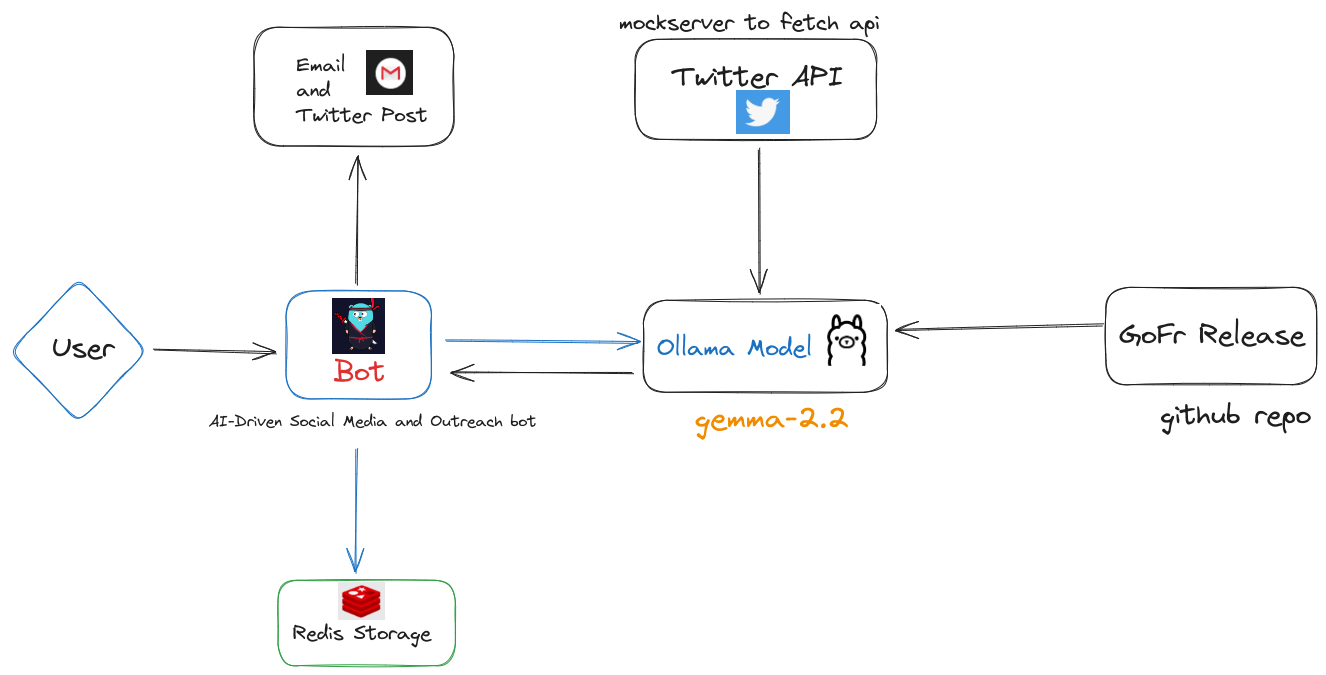
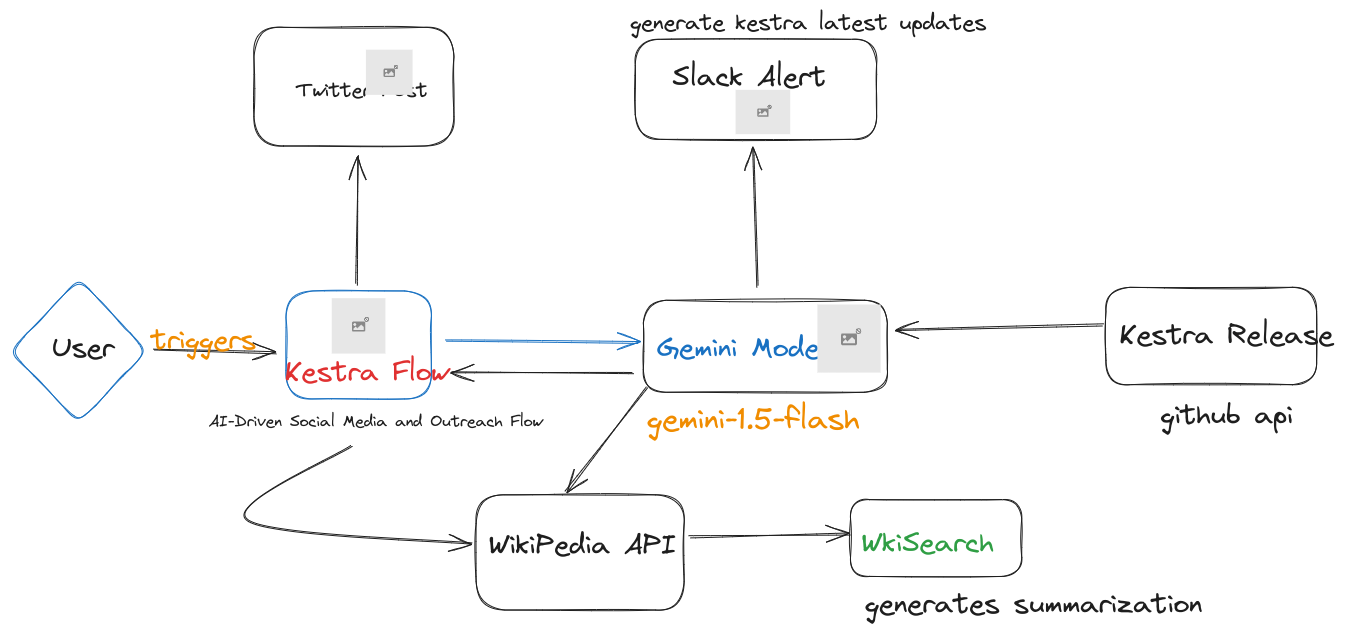
updated the readme

diff --git a/README.md b/README.md
@@ -1,13 +1,13 @@
-# Social Media Outreach AI
+# Social Media Outreach and Wikisearch AI
 
-Social Media Outreach AI is an AI-driven bot that integrates with GoFr framework to automate social media and email outreach tasks. It uses AI to generate content, monitors trending topics in Golang, and sends posts to Twitter and emails to target recipients. The bot is built using GoFr, GPT models, and various APIs for social media and email handling.
+Social Media Outreach and Wikisearch AI Workflow is an AI-driven bot that integrates with Golang framework to automate social media and email outreach tasks. It uses AI to generate content, monitors trending topics in Golang, and sends posts to Twitter and emails to target recipients. The bot is built using Golang, GPT models, and various APIs for social media and email handling.
 
 ![alt text](image.png)
 
 
 ## Project Structure
 
-gofr-bot/
+kestranotifierai/
 │
 ├── main.go               # Entry point
 ├── handlers/             # Handlers for routes
@@ -24,7 +24,7 @@ gofr-bot/
 
 ## Technologies Used
 
-- **GoFr Framework**: Route management and data handling
+- **Golang Framework**: Route management and data handling
 - **GPT Model (e.g., GPT-4)**: Content generation and analysis
 - **Redis**: Caching and data storage
 - **Twitter API**: Post tweets on Twitter
@@ -50,10 +50,9 @@ gofr-bot/
 2. **Run Ollama**:
     `curl -fsSL https://ollama.com/install.sh | sh`
     `ollama serve`
-3. Run GoFr Bot: Ensure that the necessary environment variables are set in .env (API keys and secrets), then run the bot server:
-The GoFr Bot server will run on port 9000.
+3. Run Kestra Workflow: Ensure that the necessary environment variables are set in .env (API keys and secrets), then run the bot server:
+The Kestra Workflow server will run on port 8080.
 
-4. Run the Mock Server: The mock server for Twitter API and email API runs on port 5000. You can start it separately if needed.
 
 ## Contribution
 Contributions are welcome! If you'd like to contribute, please fork the repository and submit a pull request. For bug reports or feature requests, please open an issue.
